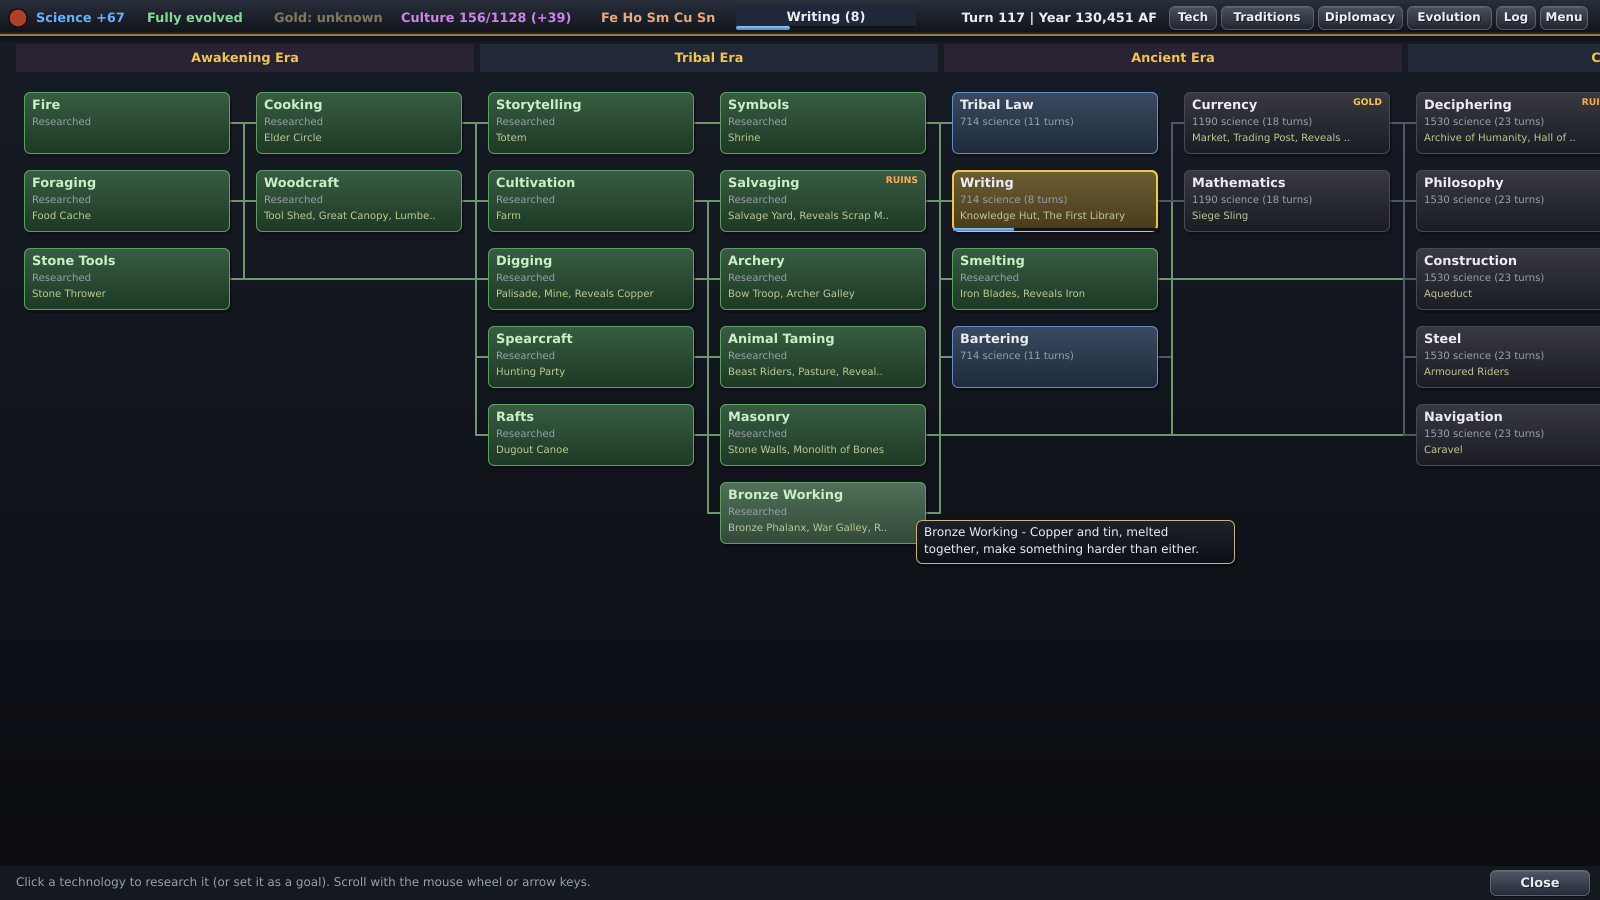
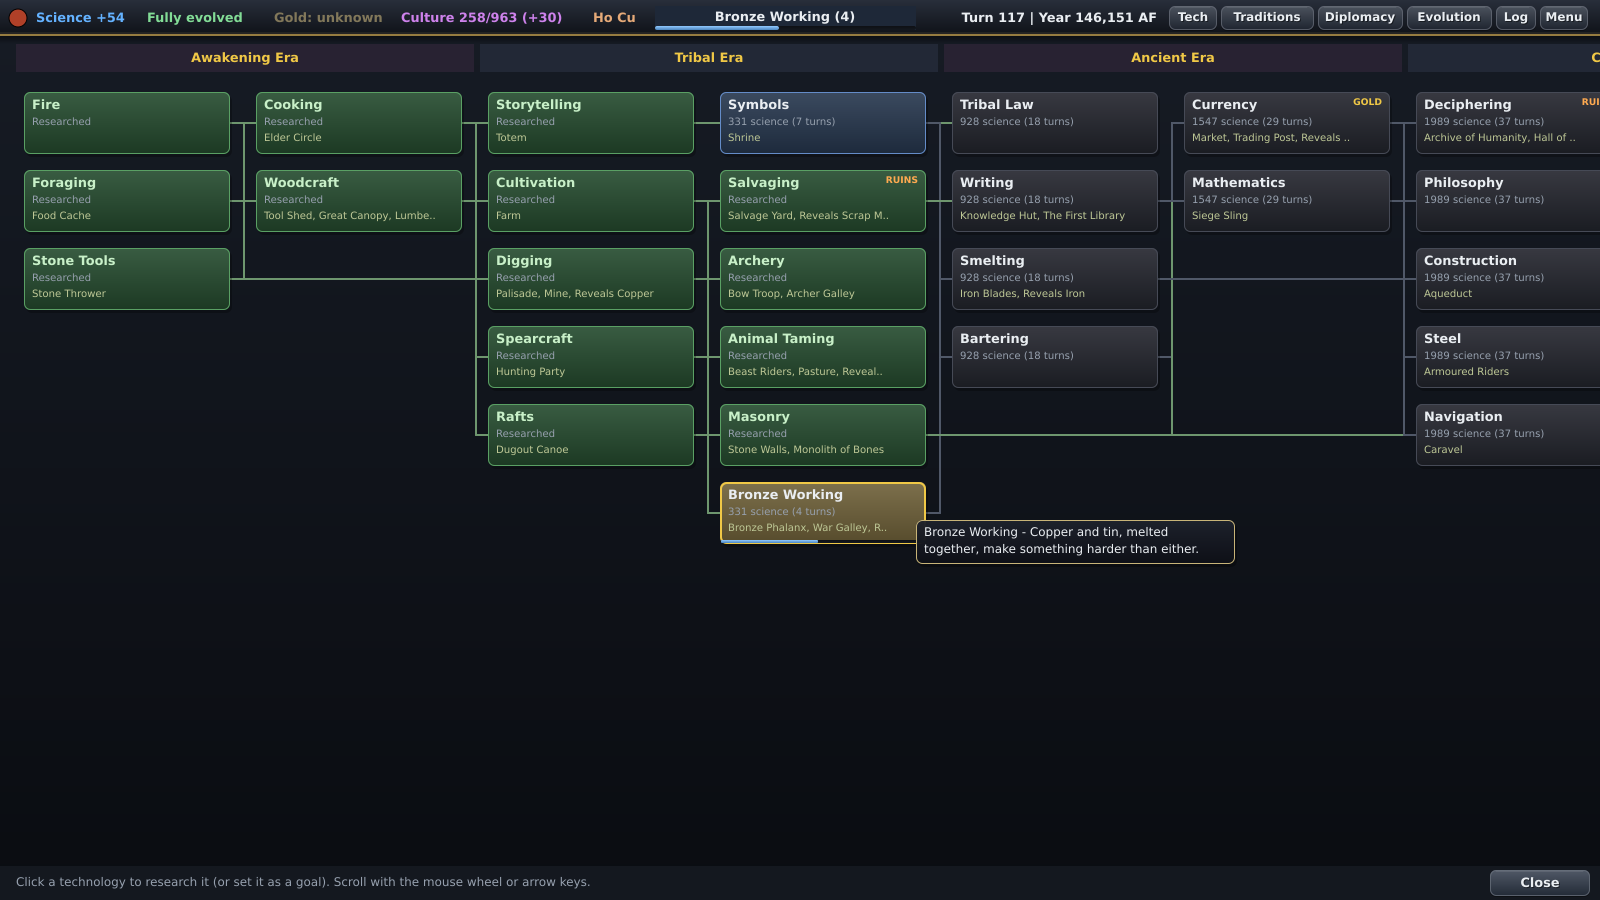
Larger maps, research scaled by map size, faster AI turns
Claude-Session: https://claude.ai/code/session_0122f3TemfsDeFULegBrgGm5

Changed region(s): [[0.4375, 0.0933, 0.75, 0.4356], [0.4375, 0.5289, 0.5938, 0.6222], [0.3125, 0.0, 0.5312, 0.0311]]

diff --git a/src/core/Game.cpp b/src/core/Game.cpp
@@ -566,7 +566,7 @@ void Game::processEvolution(int c) {
 // ============================================================ traditions
 int Game::policyCost(int c) const {
     int n = civs[c].policiesAdopted;
-    return sc(40 + 60 * n + 24 * n * n);
+    return researchCost(40 + 60 * n + 24 * n * n);
 }
 bool Game::canAdopt(int c, int p) const {
     return !civs[c].policies[p] && hasTech(c, g_policies[p].techId) && civs[c].culture >= policyCost(c);
@@ -880,7 +880,8 @@ int Game::buildCost(int c, int kind, int id) const {
         if (d.cls == UnitClass::Settler) pct -= policyPct(c, PolicyEffect::SettlerCost);
         return std::max(5, sc(applyPct(d.cost, pct)));
     }
-    if (kind == BK_BUILDING) return sc(g_buildings[id].cost);
+    if (kind == BK_BUILDING)
+        return g_buildings[id].special == BSpecial::Victory ? researchCost(g_buildings[id].cost) : sc(g_buildings[id].cost);
     return 0;
 }
 
@@ -1066,6 +1067,19 @@ int Game::moveCost(const Unit& u, int fx, int fy, int tx, int ty) const {
     return cost;
 }
 
+Game::OccScope::OccScope(const Game& gm) : g(gm) {
+    if (g.occDepth++ > 0) return;  // already built by an outer search
+    g.occHead.assign(g.W * g.H, -1);
+    g.occNext.assign(g.units.size(), -1);
+    for (int i = (int)g.units.size() - 1; i >= 0; i--) {
+        const Unit& o = g.units[i];
+        if (!o.alive || !g.inMap(o.x, o.y)) continue;
+        int t = g.idx(o.x, o.y);
+        g.occNext[i] = g.occHead[t];
+        g.occHead[t] = i;
+    }
+}
+
 bool Game::canEnter(const Unit& u, int x, int y) const {
     if (const City* c = cityAt(x, y)) {
         if (c->owner != u.owner) return false;
@@ -1074,18 +1088,19 @@ bool Game::canEnter(const Unit& u, int x, int y) const {
     auto layer = [](const UnitDef& d) { return d.civilian() ? 0 : d.naval() ? 2 : 1; };
     int mine = layer(g_units[u.type]);
     bool boarding = !g_units[u.type].naval() && isWater(x, y) && transportAt(u.owner, x, y, u.id);
-    for (auto& o : units) {
-        if (!o.alive || o.x != x || o.y != y || o.id == u.id) continue;
-        if (o.owner == u.owner && (o.carrier >= 0 || boarding)) continue;
-        if (o.owner != u.owner) return false;
-        if (layer(g_units[o.type]) == mine) return false;
-    }
-    return true;
+    bool ok = true;
+    forUnitsAt(x, y, [&](const Unit& o) {
+        if (!ok || o.id == u.id) return;
+        if (o.owner == u.owner && (o.carrier >= 0 || boarding)) return;
+        if (o.owner != u.owner || layer(g_units[o.type]) == mine) ok = false;
+    });
+    return ok;
 }
 
 std::vector<Pt> Game::findPath(const Unit& u, int tx, int ty, bool ignoreUnits) const {
     std::vector<Pt> path;
     if (!inMap(tx, ty) || (tx == u.x && ty == u.y)) return path;
+    OccScope occ(*this);
     int N = W * H;
     std::vector<int> g(N, 1 << 29), from(N, -1);
     std::vector<uint8_t> closed(N, 0);
@@ -1115,8 +1130,7 @@ std::vector<Pt> Game::findPath(const Unit& u, int tx, int ty, bool ignoreUnits) 
             if (!ignoreUnits && !canEnter(u, nb[k].x, nb[k].y)) {
                 // allow walking through own friendly units except final tile
                 bool friendlyOnly = true;
-                for (auto& o : units)
-                    if (o.alive && o.x == nb[k].x && o.y == nb[k].y && o.owner != u.owner) friendlyOnly = false;
+                forUnitsAt(nb[k].x, nb[k].y, [&](const Unit& o) { if (o.owner != u.owner) friendlyOnly = false; });
                 const City* cc = cityAt(nb[k].x, nb[k].y);
                 if (cc && cc->owner != u.owner) friendlyOnly = false;
                 if (!friendlyOnly || ni == goal) continue;

diff --git a/src/ui/GameUI.cpp b/src/ui/GameUI.cpp
@@ -269,11 +269,12 @@ void GameUI::renderSetup() {
         "only start wars they can win, gather armies with siege engines before attacking, and make peace when losing.",
         "Expert: as Hard, but sharper - bigger empires, tighter decisions, opportunistic wars and a determined race to Rebirth.\n"
         "No difficulty gives the computer free yields or units: it simply plays better."};
+    static const char* SIZE_TIPS[] = {"Small: 60 x 38 hexes, 4 species", "Standard: 74 x 46 hexes, 6 species", "Large: 84 x 54 hexes, 8 species"};
     int beginX = W - 260 - gx + 20, rowW = std::min(600, beginX - 16 - (gx + 110));
     int s3 = rowW / 3, s4 = rowW / 4;  // button pitch for 3 and 4 choices
     cv->text(gx, oy + 8, "Map size:", 16, C_TEXT, AL_LEFT, true);
     for (int i = 0; i < 3; i++)
-        button(gx + 110 + i * s3, oy, s3 - 10, 34, sizes[i], true, [this, i] { setupSize = i; }, "",
+        button(gx + 110 + i * s3, oy, s3 - 10, 34, sizes[i], true, [this, i] { setupSize = i; }, SIZE_TIPS[i],
                setupSize == i ? rgb(110, 90, 40) : C_PANEL2, 14);
     cv->text(gx, oy + 52, "Difficulty:", 16, C_TEXT, AL_LEFT, true);
     for (int i = 0; i < 4; i++)
@@ -748,16 +749,28 @@ void GameUI::renderMinimap() {
     cv->fillRoundRectGrad(mmX - 6, mmY - 6, mmW + 12, mmH + 12, 8, rgb(150, 124, 76), rgb(70, 54, 32));  // bronze frame
     cv->fillRect(mmX - 2, mmY - 2, mmW + 4, mmH + 4, rgb(10, 12, 16));
     int pw = std::max(1, (int)std::ceil(sc)), ph = std::max(1, (int)std::ceil(sc));
-    for (int y = 0; y < g.H; y++)
+    // each row is drawn as runs of one colour, so big maps stay cheap to draw every frame
+    for (int y = 0; y < g.H; y++) {
+        int runStart = -1;
+        Color runC{0, 0, 0};
+        auto flush = [&](int xEnd) {
+            if (runStart < 0) return;
+            int x0 = mmX + (int)((runStart + 0.5 * (y & 1)) * sc), x1 = mmX + (int)((xEnd - 1 + 0.5 * (y & 1)) * sc) + pw;
+            cv->fillRect(x0, mmY + (int)(y * sc), x1 - x0, ph, runC);
+            runStart = -1;
+        };
         for (int x = 0; x < g.W; x++) {
             int i = g.idx(x, y);
-            if (!me.explored[i]) continue;
+            if (!me.explored[i]) { flush(x); continue; }
             const Tile& t = g.tiles[i];
             Color c = t.owner >= 0 ? civColor(t.owner) : t.mountain ? rgb(120, 116, 110) : g_terrain[t.terrain].color;
             if (t.owner < 0 && t.fallout) c = blend(c, rgb(150, 168, 40), 0.4f);
             if (!me.visible[i]) c = darken(c, 0.6f);
-            cv->fillRect(mmX + (int)((x + 0.5 * (y & 1)) * sc), mmY + (int)(y * sc), pw, ph, c);
+            if (runStart >= 0 && (c.r != runC.r || c.g != runC.g || c.b != runC.b)) flush(x);
+            if (runStart < 0) { runStart = x; runC = c; }
         }
+        flush(g.W);
+    }
     for (auto& c : g.cities)
         if (c.alive && me.explored[g.idx(c.x, c.y)])
             cv->fillRect(mmX + (int)((c.x + 0.5 * (c.y & 1)) * sc) - 1, mmY + (int)(c.y * sc) - 1, 4, 4, rgb(255, 255, 255));

diff --git a/src/core/Game.h b/src/core/Game.h
@@ -2,6 +2,7 @@
 // SPDX-License-Identifier: MIT
 #pragma once
 #include "Data.h"
+#include <algorithm>
 #include <string>
 #include <vector>
 
@@ -239,7 +240,11 @@ public:
     int maxTurns = 500;
     int sc(int v) const { return (int)((long long)v * costPct / 100); }
     int dur(int turns) const { return turns * speedPct / 100; }
-    int techCost(int t) const { return sc(g_techs[t].cost); }
+    // Bigger maps give each species more room and bigger empires, so (as in Civilization) research,
+    // traditions and the Rebirth Project cost more on them. Derived from the map size, not saved.
+    int mapCostPct() const { static const int P[] = {100, 130, 170}; return P[std::clamp(settings.mapSize, 0, 2)]; }
+    int researchCost(int v) const { return (int)((long long)sc(v) * mapCostPct() / 100); }
+    int techCost(int t) const { return researchCost(g_techs[t].cost); }
     int traitCost(int t, int k) const { return sc(g_traits[t].cost[k]); }
     int statWars = 0, statCaptures = 0, statRazes = 0, statNukes = 0;  // diagnostics only (not saved)
 
@@ -377,6 +382,22 @@ public:
     int maxMoves(const Unit& u) const;
     int moveCost(const Unit& u, int fx, int fy, int tx, int ty) const;  // -1 impassable
     bool canEnter(const Unit& u, int x, int y) const;
+    // A tile -> units index, built for the length of a path search (units cannot move meanwhile), so
+    // canEnter and transportAt need not scan every unit for every tile the search looks at.
+    mutable std::vector<int> occHead, occNext;
+    mutable int occDepth = 0;
+    struct OccScope {
+        const Game& g;
+        explicit OccScope(const Game& gm);
+        ~OccScope() { g.occDepth--; }
+    };
+    template <class F> void forUnitsAt(int x, int y, F f) const {
+        if (occDepth > 0) {
+            for (int i = occHead[idx(x, y)]; i >= 0; i = occNext[i]) f(units[i]);
+        } else {
+            for (auto& o : units) if (o.alive && o.x == x && o.y == y) f(o);
+        }
+    }
     bool canEmbark(int c, int x, int y) const;
     bool isCoastal(int x, int y) const;  // next to water
     void aiNaval(Unit& u);

diff --git a/src/core/Transport.cpp b/src/core/Transport.cpp
@@ -110,13 +110,15 @@ int Game::cargoSpace(const Unit& ship) const {
 }
 
 const Unit* Game::transportAt(int c, int x, int y, int exclude) const {
-    for (auto& s : units) {
-        if (!s.alive || s.owner != c || s.x != x || s.y != y || !g_units[s.type].naval() || g_units[s.type].cargo <= 0) continue;
+    const Unit* found = nullptr;
+    forUnitsAt(x, y, [&](const Unit& s) {
+        if (found || s.owner != c || !g_units[s.type].naval() || g_units[s.type].cargo <= 0) return;
         int n = 0;
-        for (auto& o : units) if (o.alive && o.carrier == s.id && o.id != exclude) n++;
-        if (n < g_units[s.type].cargo) return &s;
-    }
-    return nullptr;
+        if (occDepth > 0) forUnitsAt(x, y, [&](const Unit& o) { if (o.carrier == s.id && o.id != exclude) n++; });  // cargo rides on its ship's tile
+        else for (auto& o : units) if (o.alive && o.carrier == s.id && o.id != exclude) n++;
+        if (n < g_units[s.type].cargo) found = &s;
+    });
+    return found;
 }
 
 bool Game::boardShip(Unit& u) {

diff --git a/src/core/MapGen.cpp b/src/core/MapGen.cpp
@@ -314,7 +314,7 @@ void Game::newGame(const GameSettings& s) {
     costPct = SPEED_COST[settings.speed];
     maxTurns = SPEED_TURNS[settings.speed];
     rng.seed(s.seed * 2654435761ull + 12345);
-    static const int SW[] = {44, 56, 70}, SH[] = {28, 36, 44}, NCIV[] = {4, 6, 8};
+    static const int SW[] = {60, 74, 84}, SH[] = {38, 46, 54}, NCIV[] = {4, 6, 8};  // about 570 tiles per species, like Civilization VI
     W = SW[s.mapSize];
     H = SH[s.mapSize];
     int nPrim = NCIV[s.mapSize];

diff --git a/README.md b/README.md
@@ -36,7 +36,7 @@
   * **Cities** grow from huts round a fire, to brick and stone houses with tiled roofs, to smoking factories and glass towers. Walls gain towers, and capitals fly a fluttering pennant.
   * **Screens** have rounded, shaded panels and buttons, illustrated portraits of each primate, and an animated title scene: a ruined city at sunset under a mushroom cloud.
   * **Animations** can be turned off in the menu for slow computers. The terrain is cached in chunks, so scrolling the map stays smooth.
-* **Hex map**, randomly generated, with grassland, plains, desert, tundra, snow, coast and ocean, plus forest, jungle, hills, mountains and resources. Small, Standard and Large sizes (4, 6 or 8 primate civilisations).
+* **Hex map**, randomly generated, with grassland, plains, desert, tundra, snow, coast and ocean, plus forest, jungle, hills, mountains and resources. Small (60 × 38), Standard (74 × 46) and Large (84 × 54) sizes with 4, 6 or 8 primate civilisations: about 570 tiles per species, the same room each as in Civilization VI.
 * **Eight playable primates**, each with its own bonuses, a unique unit and a preferred starting terrain (see below).
 * **A nomadic beginning.** There are no cities at the start. Each species begins as a **Roaming Band** that forages the tiles around it (one per member, plus one). Foraged land is picked over and recovers slowly, so bands must keep moving to fresh forest, jungle and grassland. Well-fed bands grow to at most 8 members; a band can **split** in two, or turn members into a **war party** or a **scout**. Hungry bands lose members, and predators, droughts, wildfires, sickness and cold strike the wanderers. Settling needs **Speech** (evolution) and **Cultivation** (technology); a band of N members founds a city of size 1 + (N-1)/2.
 * **Evolution: a branching tree driven by real pressures.** At the start your species cannot learn deliberately and **earns no science at all** until it evolves an **Enlarged Neocortex**. Four kinds of *evolutionary pressure* fill four separate pools every turn:
